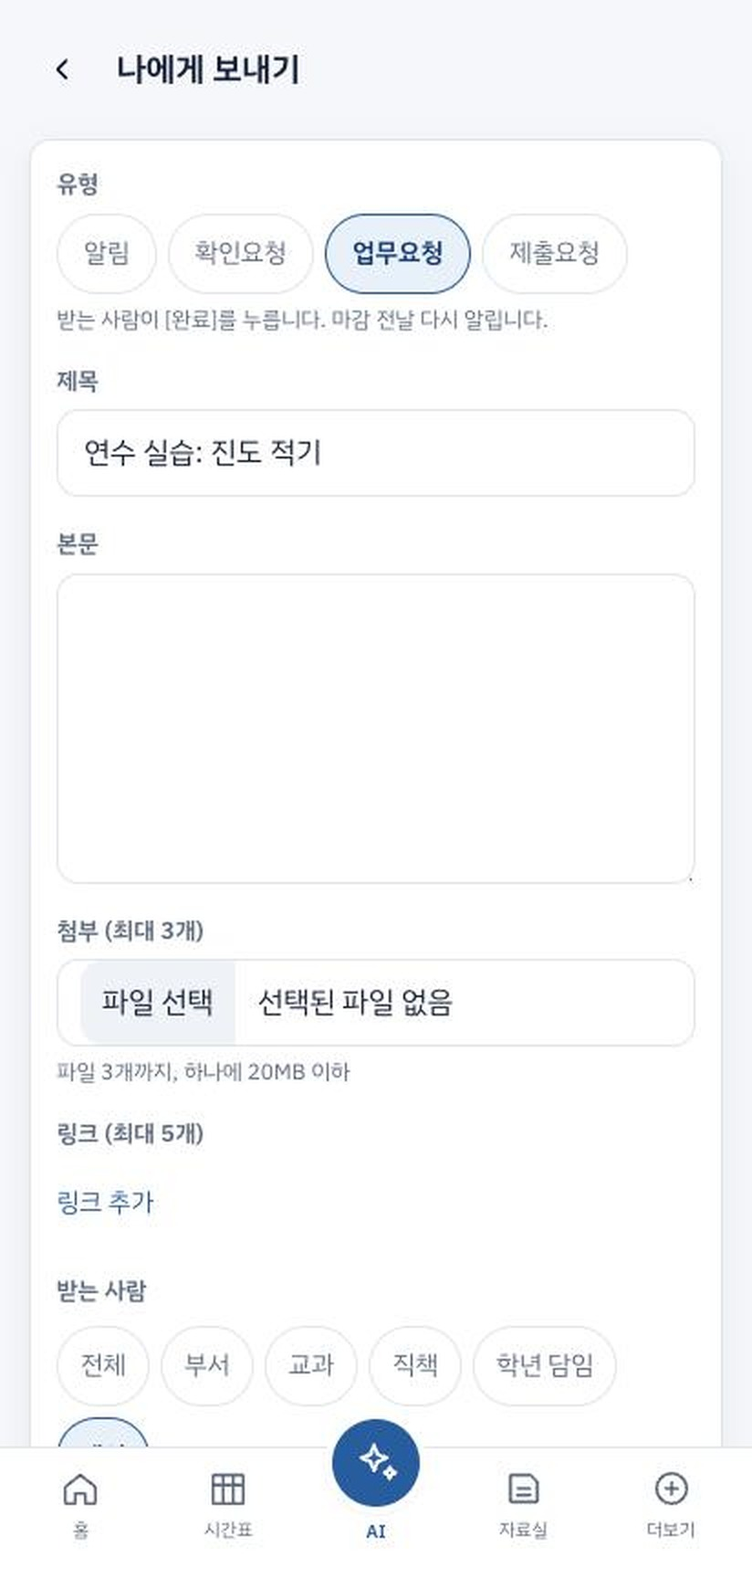
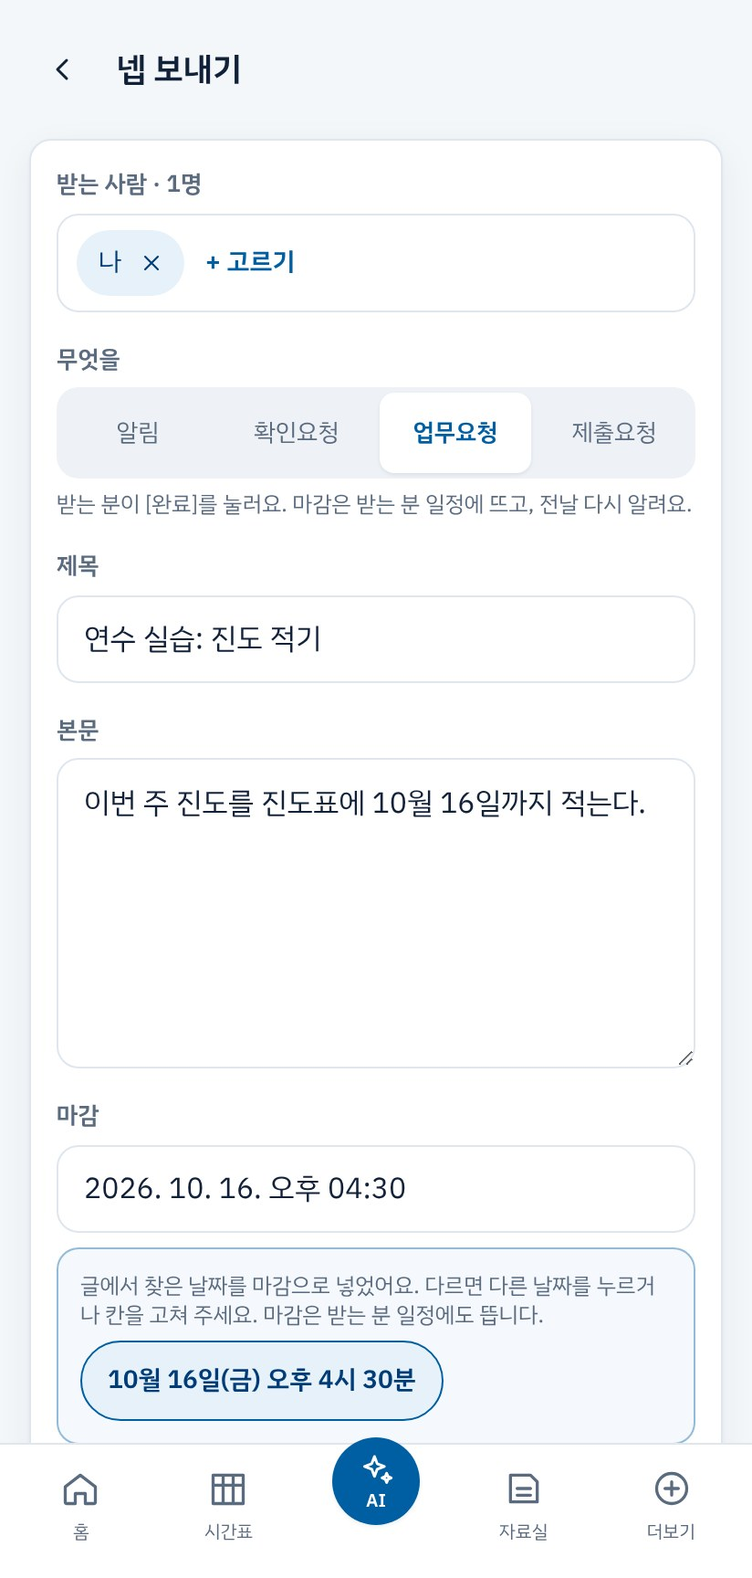
넵 새 화면 반영(10월 12일): 받은 넵은 할 일처럼·목록에서 바로 [넵], 받는 사람 맨 위(나에게·자주 보낸·개인 찾기), 보낸 넵 진행 막대·다시 알림·제출 모두 받기
- 앱 화면 부품으로 그린 넵 화면 10장(받은·보낸·받는 사람 고르기·직책·개인·쓰기·보낸 넵·받은 넵), 이름·글은 지어낸 예시
- 실습 6·받는 사람 고르기·넵 마감·실습 7 장면을 새 화면에 맞춰 다시 씀, 옛 모형과 옛 캡처(nep, nep-roles) 지움
- 10월 새 기능 카드·첫 화면 NEW 목록에 넵 새 화면

Claude-Session: https://claude.ai/code/session_01PnRkvZMXyWQ3PDuECRmpn5

diff --git a/scenes.js b/scenes.js
@@ -445,22 +445,12 @@
   M.notiAsk = notiPage(false, '<div class="dim"></div><div class="dialog" style="top:300px"><h4>AI 교무실에서 알림을 보내도록 허용할까요?</h4><p class="muted">알림은 설정에서 언제든 바꿀 수 있습니다.</p>' +
     '<div style="display:flex;justify-content:flex-end;gap:8px;margin-top:20px"><span style="padding:10px 14px;font-weight:700;color:#1a73e8">허용 안 함</span><span data-t="allow" style="padding:10px 18px;font-weight:700;color:#fff;background:#1a73e8;border-radius:20px">허용</span></div></div>');
   M.notiOn = notiPage(true);
-  function nepTop(tab) {
-    return '<div class="top"><b>넵</b><span>' + (tab === 0 ? "처리할 것 1건" : "보낸 요청 현황") + "</span></div>" +
-      '<div style="margin:6px 16px 10px;background:#e9eef4;border-radius:14px;padding:4px;display:grid;grid-template-columns:1fr 1fr;text-align:center;font-weight:700"><span style="padding:9px;border-radius:11px;' + (tab === 0 ? "background:#fff" : "color:#6b7a90") + '">받은</span><span style="padding:9px;border-radius:11px;' + (tab === 1 ? "background:#fff" : "color:#6b7a90") + '">보낸</span></div>';
-  }
-  M.nepRecv = mk(nepTop(0) + '<div class="card" data-t="item"><span class="pill">업무요청</span><h4 style="margin-top:8px">연수 실습: 진도 적기</h4><p class="muted">나 · 마감 10월 9일 (금) 16:30</p></div>');
-  M.nepDetail = mk('<div class="top"><b style="font-size:20px">‹&nbsp; 넵</b></div><div class="card"><span class="pill">업무요청</span><h4 style="font-size:22px;margin-top:10px">연수 실습: 진도 적기</h4><p class="muted">보낸 사람 나 · 마감 10월 9일 (금) 16:30</p><p style="margin-top:12px">오늘 수업 진도를 진도표에 한 줄 적어 주세요.</p>' +
-    '<div class="btn" data-t="done" style="position:relative;overflow:hidden">완료<span class="dn" style="position:absolute;inset:0;display:grid;place-items:center;background:#1f8a5a;opacity:0">넵 처리했습니다 · 16:42</span></div></div>');
-  M.nepSent = mk(nepTop(1) + '<div class="card"><span class="pill">확인요청</span><h4 style="margin-top:8px">2학기 평가계획서 확인</h4><div class="row"><span class="muted">처리</span><b>5 / 7</b></div><div class="bar2"><i style="width:71%"></i></div>' +
-    '<div class="person"><span>○○○</span><span class="muted">도착 · 아직</span></div><div class="person"><span>○○○</span><span class="muted">도착 · 아직</span></div><div class="person"><span class="muted">처리 5명</span><span class="muted">펼치기 ›</span></div>' +
-    '<div class="btn ghost" data-t="remind">다시 알림</div></div>');
   M.signTap = mk('<div class="top"><b style="font-size:21px">‹&nbsp; 종교과 교과협의회</b><span>10월 7일 (수) 7교시 · 아가페교실</span></div>' +
     '<div class="card"><div class="row"><span class="muted">만든 사람 홍길동</span><span class="pill">서명 받는 중</span></div></div>' +
     '<div style="margin:14px 20px 4px;font:600 13px var(--body);color:#6b7a90">명단</div>' +
     '<div class="card" style="padding:4px 18px"><div class="person" style="border:0"><span>1&nbsp; 김하늘 · 교과</span><b style="color:#1f8a5a">✓ 15:42</b></div><div class="person"><span>2&nbsp; 나 · 교목실</span><span class="muted st">아직</span></div><div class="person"><span>3&nbsp; 박서준 · 교과</span><span class="muted">아직</span></div></div>' +
     '<div style="position:absolute;left:16px;right:16px;top:430px"><div class="btn" data-t="sign" style="position:relative;overflow:hidden">내 서명으로 서명하기<span class="dn" style="position:absolute;inset:0;display:grid;place-items:center;background:#1f8a5a;opacity:0">✓ 서명했습니다</span></div><p style="text-align:center;margin-top:10px;color:#295c9e;font-weight:700">이번만 손으로</p></div>');
-  // 10월 둘째 주에 새로 생긴 화면(캡처 전이라 모형): 빼꼼·넵 마감·넵 속 일정·수업교체 계산하기
+  // 10월 둘째 주에 새로 생긴 화면(캡처 전이라 모형): 빼꼼·수업교체 계산하기
   function hd(title, link, attr) { return '<div class="row" ' + (attr || "") + '><h4 style="margin:0">' + title + "</h4>" + (link ? '<span class="lk">' + link + "</span>" : "") + "</div>"; }
   function li(tm, txt, pill) { return '<div class="li"><b class="tm">' + tm + "</b><span>" + txt + "</span>" + (pill || "") + "</div>"; }
   M.today = mk('<div class="top"><b>빼꼼</b><span>오늘 학교를 빼꼼 — 공지와 평소 시간표에서 달라진 것</span></div>' +
@@ -470,22 +460,6 @@
     '<div class="card" data-t="nep">' + hd('내 넵 <span class="cnt">1</span>', "넵") + li("16:30", "2학기 평가계획서 제출", '<span class="pill">제출요청 마감</span>') + "</div>" +
     '<div class="card" data-t="ev">' + hd('특별 일정 <span class="cnt">2</span>', "주간소식") + li("5~6교시", "동아리활동") + li("15:30", "10월 교직원 협의회", '<span class="pill wk">주간소식</span>') + "</div>" +
     '<div class="card" data-t="chg">' + hd('바뀐 수업 <span class="cnt">3</span>') + li("3교시", "2-3반 · 국어 → 수학", '<span class="pill ok">지금</span>') + li("5교시", "3-10반 · 과학 → 수학", '<span class="pill gr">수락 대기</span>') + li("6교시", "1-4반 · 과학", '<span class="pill warn">보강 필요</span>') + "</div>");
-  M.nepDue = mk('<div class="top"><b style="font-size:20px">‹&nbsp; 넵 보내기</b></div>' +
-    '<div class="card"><p class="lbl">유형</p><div class="chips"><span>알림</span><span class="on">확인요청</span><span>업무요청</span><span>제출요청</span></div>' +
-    '<p class="lbl">제목</p><div class="inp">2학기 평가계획서 확인</div>' +
-    '<p class="lbl">본문</p><div class="inp" style="height:76px">10월 16일까지 확인하고 [넵] 눌러 주세요. 10월 20일 7교시 교과협의회에서 함께 봅니다.</div>' +
-    '<p class="muted" style="margin:12px 0 4px">첨부 · 링크 · 받는 사람 ⋯</p>' +
-    '<p class="lbl" data-t="duelabel">마감 (선택)</p>' +
-    '<div class="hint" data-t="due">글에서 찾은 날짜를 마감으로 넣었어요. 다르면 다른 날짜를 누르거나 칸을 고쳐 주세요. 마감은 받는 분 일정에도 뜹니다.<div class="chips" style="margin-top:8px"><span class="on">10월 16일(금) 오후 4시 30분</span><span>10월 20일(화) 오후 4시 30분</span></div></div>' +
-    '<div class="inp">2026. 10. 16. 오후 04:30</div><p class="lk" style="margin-top:8px">마감 빼기</p>' +
-    '<div class="btn">보내기</div></div>');
-  M.nepEvents = mk('<div class="top"><b style="font-size:20px">‹&nbsp; 넵</b></div>' +
-    '<div class="card"><span class="pill">확인요청</span><h4 style="font-size:20px;margin-top:8px">2학기 평가계획서 확인</h4><p class="muted">보낸 사람 나 · 마감 10월 16일(금) 16:30</p><p style="margin-top:10px">10월 16일까지 확인하고 [넵] 눌러 주세요. 10월 20일 7교시 교과협의회에서 함께 봅니다.</p></div>' +
-    '<div class="card" data-t="ev">' + hd("넵 속 일정") +
-    '<div class="row" style="gap:8px;justify-content:flex-start;margin-top:8px" data-t="evbtn"><span class="tb">AI로 다시 찾기</span><span class="tb">+ 더하기</span></div>' +
-    li("10/20(화)", "7교시 교과협의회", '<span class="lk">고치기 · 빼기</span>') +
-    '<p class="muted" style="margin-top:8px">받는 분들의 일정·시간표·빼꼼·아침 알림에 이 일정이 보여요. 받는 분과 나에게만 보입니다.</p></div>' +
-    '<div class="card"><div class="row"><span class="muted">처리</span><b>3 / 7</b></div><div class="bar2"><i style="width:43%"></i></div></div>');
   M.swapCalc = mk('<div class="top"><b>수업교체</b><span>교체안과 수업교체 신고서 · 학사일정 반영</span></div>' +
     '<div class="seg3" style="grid-template-columns:1fr 1fr"><span class="on">계산하기</span><span>요청</span></div>' +
     '<div class="card" data-t="cond"><h4>교체 조건</h4>' +
@@ -627,7 +601,7 @@
     ["1부", "빼꼼 · 오늘 알림", "현황판이 <b>빼꼼</b>으로. 공지·내 넵·특별 일정·바뀐 수업을 한곳에, 홈에는 <b>「오늘 알림」</b>."],
     ["1부", "아침 알림 「내 줄」", "내 당번·<b>바뀐 내 수업</b>·내 수업과 겹치는 일정·오늘 마감 넵이 알림 <b>맨 위</b>에."],
     ["2부", "시간표에 저절로", "<b>학사일정·주간소식</b>은 칸에 띠로, 그 주 <b>수업교체</b>는 「바뀜·교체·보강」으로. 내 출장은 내 일정에."],
-    ["3부", "넵 마감이 내 일정에", "글 속 날짜가 <b>마감 칸에 저절로</b>. 마감과 넵 속 일정이 받는 분 <b>일정·빼꼼</b>에."],
+    ["3부", "넵 새 화면 · 마감", "받은 넵은 <b>할 일</b>처럼, 확인요청은 목록에서 [넵]. 글 속 날짜가 <b>마감 칸에 저절로</b>."],
     ["4부", "디지털 서명", "<b>내 서명</b> 한 번 등록으로 회의 서명부·파일 서명·수업교체 신고서에 <b>한 번 누르기</b>."],
     ["5부", "AI가 더 많이 읽어요", "<b>📎 파일·웹 주소</b>, <b>학교 공유 드라이브</b>, 주간소식까지. 넵도 <b>카드로 보내기</b>."],
     ["5부", "수업교체 계산하기", "<b>학사일정을 반영</b>해 교체안을 계산하고, 갚는 수업의 <b>날짜를 고릅니다</b>."],
@@ -927,61 +901,67 @@
     chips: [{ t: "실습 6 · 넵" }, { t: "2분", c: "ghost" }], title: "나에게 업무요청 보내기",
     steps: [
       { t: '<span class="k">더보기</span> 맨 위의 <span class="k">넵</span>', s: 0, r: [17, 133, 378, 56] },
-      { t: '<span class="k">나에게</span>: 나에게 보내는 할 일 메모', s: 1, r: [322, 665, 73, 45], z: 1.9 },
-      { t: '유형은 <span class="q">「업무요청」</span> (받으면 <span class="k">완료</span>를 누름)', s: 2, r: [178, 117, 80, 44], z: 1.9 },
-      { t: '제목 <span class="q">「연수 실습: 진도 적기」</span>. 글에 날짜가 있으면 <b>마감 칸에 저절로</b> 들어갑니다', s: 2, r: [31, 224, 350, 48] },
-      { t: '맨 아래 <span class="q">「마감」</span>을 확인하고 <span class="k">보내기</span>. 마감은 <b>내 일정·빼꼼</b>에도 뜹니다', s: 2 }
+      { t: '오른쪽 아래 <span class="k">+ 넵 보내기</span>', s: 1, r: [283, 720, 113, 48], z: 1.9 },
+      { t: '<span class="q">「+ 받는 사람 고르기」</span> → <span class="k">나에게</span> → <span class="k">완료</span>', g: '맨 위 <span class="q">「+ 받는 사람 고르기」</span>를 누르면 아래에서 창이 올라옵니다. <span class="q">「바로 고르기」</span>의 <span class="k">나에게</span>를 누르고 <span class="k">완료</span>', s: 2, r: [16, 574, 67, 44], z: 1.9, newf: true },
+      { t: '<span class="q">「업무요청」</span>, 제목 <span class="q">「연수 실습: 진도 적기」</span>', g: '무엇을 <span class="q">「업무요청」</span>(받으면 <span class="k">완료</span>를 누름). 제목 <span class="q">「연수 실습: 진도 적기」</span>, 본문에는 <span class="q">「내일까지 진도표에 적기」</span>처럼 날짜를 함께 씁니다', s: 3, r: [31, 212, 350, 373] },
+      { t: '글 속 날짜가 <b>마감 칸에 저절로</b> 들어갑니다', g: '글 속 날짜가 <b>마감 칸에 저절로</b> 들어갑니다. 다르면 날짜 단추를 누르거나 칸을 고칩니다. 마감은 <b>내 일정·빼꼼</b>에도 뜹니다', s: 4, r: [31, 346, 350, 164], newf: true },
+      { t: '<span class="k">나에게 업무요청 보내기</span>', g: '맨 아래 <span class="k">나에게 업무요청 보내기</span>. 단추에 누구에게 무엇을 보내는지 쓰여 있습니다', s: 4, r: [31, 661, 350, 50] }
     ],
     note: { tone: "warn", html: "<span><b>근무시간이 끝난 뒤</b>에 보내면 다음 근무일 아침에 도착합니다. 도착하면 [완료]를 눌러 보세요.</span>" },
-    screens: [shot("more-top"), shot("nep"), shot("nep-new")],
-    notes: "「나에게」는 <b>나에게 보내는 할 일 메모</b>입니다. 밤에 써 두면 다음 근무일 아침에 도착하고, [완료]를 누를 때까지 남습니다. 마감은 <b>일정 달력·빼꼼 「내 넵」·홈 「오늘 알림」</b>에도 떠서 잊지 않게 해 줍니다. 지금 직접 한 건 보내 보세요."
+    screens: [shot("more-top"), shot("nep-inbox"), shot("nep-pick-me"), shot("nep-new"), shot("nep-new-bottom")],
+    notes: "「나에게」는 <b>나에게 보내는 할 일 메모</b>입니다. 10월 12일부터 넵 보내기는 <b>받는 사람이 맨 위</b>이고, 보내기 단추에 「나에게 업무요청 보내기」처럼 누구에게 무엇을 보내는지 쓰여 있습니다. 밤에 써 두면 다음 근무일 아침에 도착하고, [완료]를 누를 때까지 남습니다. 마감은 <b>일정 달력·빼꼼 「내 넵」·홈 「오늘 알림」</b>에도 떠서 잊지 않게 해 줍니다. 지금 직접 한 건 보내 보세요. 화면 속 이름·글은 예시입니다."
   });
 
   practice({
-    id: "audience", part: 3, num: null, label: "받는 사람 고르기", min: 0.7, isNew: true,
+    id: "audience", part: 3, num: null, label: "받는 사람 고르기", min: 0.8, isNew: true,
     chips: [{ t: "NEW", c: "new" }, { t: "넵·서명 공통", c: "ghost" }], title: "받는 사람을 <em>부서·교과·직책</em>으로",
     steps: [
-      { t: '<span class="q">전체 · 부서 · 교과 · 직책 · 학년 담임 · 개인</span> 여섯 가지로 고릅니다', s: 0, r: [31, 293, 350, 94], newf: true },
-      { t: '<span class="k">직책</span> → <span class="q">부장단 12</span> · <span class="q">교과 주임단 14</span>', s: 0, r: [31, 397, 196, 44], newf: true, z: 1.9 },
-      { t: '고르면 <b>이름이 펼쳐져</b> 누구에게 가는지 바로 보입니다', s: 0, r: [31, 473, 350, 98], newf: true },
-      { t: '나는 빼고 <b>11명에게</b>', s: 0, r: [31, 575, 120, 28], z: 1.9 },
-      { t: '같은 고르기를 <b>회의 서명부·파일 서명</b>에서도 씁니다', s: 0 }
+      { t: '맨 위 <span class="q">「바로 고르기」</span>: <span class="k">나에게</span> + 자주 보낸 묶음', s: 0, r: [16, 574, 380, 44], newf: true },
+      { t: '<span class="q">전체 · 부서 · 교과 · 직책 · 학년 담임 · 개인</span>', g: '그 아래 <span class="q">전체 · 부서 · 교과 · 직책 · 학년 담임 · 개인</span> 여섯 가지로 고릅니다', s: 1, r: [16, 527, 380, 46] },
+      { t: '<span class="k">직책</span> → <span class="q">부장단 12</span> · <span class="q">교과 주임단 14</span>', s: 1, r: [16, 583, 198, 44], z: 1.9 },
+      { t: '고르면 <b>이름이 펼쳐져</b> 누구에게 가는지 보입니다', s: 1, r: [16, 659, 380, 98] },
+      { t: '<span class="q">「12명 골랐어요」</span> 확인하고 <span class="k">완료</span>', s: 1, r: [0, 795, 412, 69] },
+      { t: '<span class="k">개인</span>: 이름·초성으로 찾기, <span class="q">「최근 보낸 분」</span>', g: '<span class="k">개인</span>은 이름·초성(ㅂㅈㅁ)·부서·교과로 찾습니다. 맨 위에 <span class="k">나</span>와 <span class="q">「최근 보낸 분」</span>, 전체 명단은 <span class="q">「전체 명단 보기」</span>로 펼칩니다', s: 2, r: [16, 386, 380, 320], newf: true }
     ],
-    note: { html: "<span><b>부서</b> = 업무부서 9곳 + 1·2·3학년부 + 행정실 · <b>학년부</b> = 학년부장과 담임 · <b>교과</b> = 국어과처럼 교과별</span>" },
-    screens: [shot("nep-roles")],
-    lt: { tag: "NEW", title: "받는 사람 고르기", sub: "2학기 업무분장·명렬표로 만든 교직원 조직표" },
-    notes: "이번 주에 <b>교직원 조직표</b>(2학기 업무분장·명렬표)를 넣어서, 받는 사람을 부서·교과·직책으로 고를 수 있습니다. 고르면 <b>이름이 펼쳐져</b> 잘못 보낼 걱정이 줄어듭니다. 연락처는 담지 않았습니다."
+    note: { html: "<span>고른 묶음은 맨 위에 <b>이름표</b>로 남고 ×로 뺍니다. 같은 고르기를 <b>회의 서명부·파일 서명</b>에서도 씁니다</span>" },
+    gnote: { html: "<span>고른 묶음은 받는 사람 칸에 <b>이름표</b>로 남고 ×로 뺍니다. <b>부서</b> = 업무부서 9곳 + 1·2·3학년부 + 행정실, <b>학년부</b> = 학년부장과 담임. 같은 고르기를 <b>회의 서명부·파일 서명</b>에서도 씁니다. 화면 속 이름은 지어낸 예시입니다.</span>" },
+    screens: [shot("nep-pick-me"), shot("nep-audience"), shot("nep-person")],
+    lt: { tag: "NEW", title: "받는 사람 고르기", sub: "바로 고르기 · 이름 펼침 · 개인 찾기" },
+    notes: "10월 12일부터 넵 보내기 맨 위가 <b>받는 사람</b>입니다. 「+ 받는 사람 고르기」를 누르면 아래에서 창이 올라오고, 맨 위 <b>바로 고르기</b>에 「나에게」와 내가 자주 보낸 묶음이 있습니다. 그 아래는 전체·부서·교과·직책·학년 담임·개인. 묶음을 고르면 <b>구성원 이름이 펼쳐져</b> 잘못 보낼 걱정이 줄고, 「개인」은 이름·초성으로 찾습니다. 조직표는 2학기 업무분장·명렬표로 만들었고 연락처는 담지 않았습니다. 화면 속 이름은 지어낸 예시입니다."
   });
 
   practice({
     id: "nepDue", part: 3, num: null, label: "넵 마감·넵 속 일정", min: 1, isNew: true,
     chips: [{ t: "NEW", c: "new" }, { t: "둘러보기 · 넵", c: "ghost" }], title: "넵 마감이 <em>받는 분 일정에</em>",
     steps: [
-      { t: '글 속 날짜가 <b>마감 칸에 저절로</b>. 다르면 날짜 단추나 칸을 고칩니다', g: '넵을 쓰면 제목·본문에서 찾은 날짜가 <b>마감 칸에 저절로</b> 들어갑니다. 다르면 다른 날짜 단추를 누르거나 칸을 고칩니다', s: 0, r: "[data-t=due]", newf: true },
-      { t: '확인요청도 <span class="q">「마감 (선택)」</span>. 필요 없으면 <span class="k">마감 빼기</span>', s: 0, r: "[data-t=duelabel]", z: 1.9 },
-      { t: '보내면 AI가 글 속 일정을 <span class="q">「넵 속 일정」</span>에 적습니다', g: '보내면 AI가 글 속 일정(날짜·교시·시각)을 찾아 <span class="q">「넵 속 일정」</span>에 적습니다', s: 1, r: "[data-t=ev]", newf: true },
-      { t: '보낸 사람은 <span class="k">고치기</span>·<span class="k">빼기</span>·<span class="k">+ 더하기</span>·<span class="k">AI로 다시 찾기</span>', s: 1, r: "[data-t=evbtn]", z: 1.9 },
-      { t: '받는 분의 <b>일정·시간표·빼꼼·아침 알림</b>에 뜹니다(두 분에게만)', g: '마감과 넵 속 일정은 받는 분의 <b>일정·시간표·빼꼼 「내 넵」·아침 알림</b>에 뜹니다. 보낸 분과 받는 분에게만 보입니다', s: 1 }
+      { t: '글 속 날짜가 <b>마감 칸에 저절로</b>. 다르면 날짜 단추나 칸을 고칩니다', g: '넵을 쓰면 제목·본문에서 찾은 날짜가 <b>마감 칸에 저절로</b> 들어갑니다(시각이 없으면 오후 4시 30분). 다르면 다른 날짜 단추를 누르거나 칸을 고칩니다', s: 0, r: [31, 346, 350, 164], newf: true },
+      { t: '확인요청은 <span class="q">「마감 (선택)」</span> — 필요 없으면 <span class="k">마감 빼기</span>', s: 0 },
+      { t: '보내면 AI가 글 속 일정을 <span class="q">「넵 속 일정」</span>에 적습니다', g: '보내면 AI가 글 속 일정(날짜·교시·시각)을 찾아 <span class="q">「넵 속 일정」</span>에 적습니다', s: 1, r: [31, 396, 350, 140], newf: true },
+      { t: '보낸 사람은 <span class="k">고치기</span>·<span class="k">빼기</span>·<span class="k">+ 더하기</span>·<span class="k">AI로 다시 찾기</span>', s: 1, r: [250, 404, 135, 96], z: 1.9 },
+      { t: '받는 분 화면에는 <span class="q">「내 일정에 있어요」</span>', g: '받는 분이 열면 마감 띠에 <span class="q">「내 일정에 있어요」</span>가 붙습니다. 마감과 넵 속 일정은 받는 분의 <b>일정·시간표·빼꼼 「내 넵」·아침 알림</b>에 뜹니다', s: 2, r: [31, 190, 350, 36] },
+      { t: '넵 속 일정은 <b>보낸 분과 받는 분에게만</b> 보입니다', s: 2, r: [31, 347, 350, 120] }
     ],
-    note: { html: "<span>달력의 테두리 「넵」은 마감, 점선은 넵 속 일정. 화면은 모형입니다.</span>" },
-    gnote: { html: "<span>일정 달력에서 테두리만 있는 「넵」은 마감, 점선은 넵 속 일정입니다. 마감은 처리하면 사라지고, 학교 학사일정에는 들어가지 않습니다. 화면은 모형입니다.</span>" },
-    screens: [M.nepDue, M.nepEvents],
+    note: { html: "<span>달력의 테두리 「넵」은 마감, 점선은 넵 속 일정. 처리하면 마감은 사라집니다</span>" },
+    gnote: { html: "<span>일정 달력에서 테두리만 있는 「넵」은 마감, 점선은 넵 속 일정입니다. 마감은 처리하면 사라지고, 학교 학사일정·구글 캘린더에는 들어가지 않습니다. 화면 속 이름·글은 예시입니다.</span>" },
+    screens: [shot("nep-new-bottom"), shot("nep-detail-sent"), shot("nep-detail-recv")],
     lt: { tag: "NEW", title: "넵 마감·넵 속 일정", sub: "받는 분의 일정·빼꼼·아침 알림에 저절로" },
-    notes: "넵 쓰기 화면이 <b>제목·본문의 날짜를 찾아 마감 칸에 미리 채웁니다</b>(시각이 없으면 오후 4시 30분). 보내기 전에 보이니 다르면 고치거나 뺍니다. 확인요청도 이제 마감을 넣을 수 있습니다. 보내고 나면 AI가 글 속의 일정 — 예를 들어 「10월 20일 7교시 교과협의회」 — 을 찾아 <b>넵 속 일정</b>으로 적고, 받는 분의 일정 달력(점선)·시간표 칸·빼꼼·아침 알림에 띄웁니다. 보낸 분과 받는 분에게만 보이고, 잘못 찾았으면 보낸 분이 고치거나 뺍니다. 화면은 모형입니다."
+    notes: "넵 쓰기 화면이 <b>제목·본문의 날짜를 찾아 마감 칸에 미리 채웁니다</b>(시각이 없으면 오후 4시 30분). 보내기 전에 보이니 다르면 고치거나 뺍니다. 확인요청도 마감을 넣을 수 있습니다. 보내고 나면 AI가 글 속의 일정 — 예를 들어 「10월 21일 7교시 교과협의회」 — 을 찾아 <b>넵 속 일정</b>으로 적고, 받는 분의 일정 달력(점선)·시간표 칸·빼꼼·아침 알림에 띄웁니다. 받는 분 화면에는 「내 일정에 있어요」가 붙습니다. 보낸 분과 받는 분에게만 보이고, 잘못 찾았으면 보낸 분이 고치거나 뺍니다. 화면 속 이름·글은 예시입니다."
   });
 
   practice({
     id: "p7", part: 3, num: 7, label: "실습 7 · 받은 넵 처리", min: 2, practiceMin: 2,
     chips: [{ t: "실습 7 · 넵" }, { t: "짝 실습", c: "ghost" }], title: "받은 넵 처리하기",
     steps: [
-      { t: '알림을 누르거나 <span class="k">넵</span> → <span class="q">「받은」</span>에서 엽니다', s: 0, r: "[data-t=item]" },
-      { t: '버튼은 하나: 확인요청 <span class="k">넵</span> · 업무요청 <span class="k">완료</span> · 제출요청 <span class="k">제출</span>', s: 1, r: "[data-t=done]" },
-      { t: '<span class="q">「넵 처리했습니다」</span> — 보낸 사람 화면에 바로 반영', s: 1, fn: function (A, P) { var b = P.el(1).querySelector("[data-t=done] .dn"); A.go(b, [{ opacity: 0 }, { opacity: 1 }], { d: 360, delay: 300 }); A.sfx("check", { delay: 300 }); } },
-      { t: '(보낸 사람) <span class="q">「보낸」</span>에서 누가 아직인지 보고 <span class="k">다시 알림</span>', s: 2, r: "[data-t=remind]" }
+      { t: '<span class="q">「받은」</span> 맨 위 <span class="q">「처리할 것」</span> — 마감 가까운 순', g: '알림을 누르거나 <span class="k">넵</span>을 열면 <span class="q">「받은」</span>이 오늘 할 일처럼 묶여 있습니다. 맨 위 <span class="q">「처리할 것」</span>은 마감 가까운 순, 그 아래 <span class="q">「새 알림」</span>', s: 0, r: [17, 139, 378, 403], newf: true },
+      { t: '확인요청은 <b>목록에서 바로</b> <span class="k">넵</span> → <span class="q">「처리함」</span>으로', g: '확인요청은 열지 않고 <b>목록에서 바로</b> <span class="k">넵</span>. 처리한 넵은 아래 <span class="q">「처리함」</span>(접힘)으로 내려갑니다', s: 0, r: [329, 382, 53, 44], z: 1.9, newf: true },
+      { t: '업무·제출은 열어서 <span class="k">완료</span> · <span class="k">제출</span>', g: '업무요청·제출요청은 열어서 내용을 보고 <span class="k">완료</span> · <span class="k">제출</span>. 단추는 글이 길어도 화면 아래에 붙어 있습니다', s: 1, r: [31, 490, 350, 50] },
+      { t: '(보낸 사람) <span class="q">「보낸」</span>: 진행 막대 · 미처리 N명', g: '(보낸 사람) <span class="q">「보낸」</span>은 보낼 예정 · 진행 중 · 끝난 것으로 묶이고, 진행 중에는 <b>막대</b>와 <span class="q">「미처리 N명」</span>이 보입니다', s: 2, r: [17, 277, 378, 94], newf: true },
+      { t: '열면 <span class="q">「아직 5명」</span> → <span class="k">5명에게 다시 알림</span>', g: '보낸 넵을 열면 <span class="q">「아직 N명」</span>에 이름이 보이고, <span class="k">N명에게 다시 알림</span>은 아직 안 한 분께만, <b>하루 한 번</b> 보냅니다', s: 3, r: [31, 296, 350, 111] },
+      { t: '제출요청은 <span class="k">모두 받기</span>로 한 번에', g: '제출요청은 <span class="k">모두 받기</span>를 누르면 낸 파일·글을 zip 파일 하나로 받습니다', s: 3, r: [223, 419, 158, 44], z: 1.9, newf: true }
     ],
-    note: { html: "<span><b>짝 실습</b> 옆 선생님께 「확인요청」을 보내고 서로 [넵]을 눌러 봅니다. 받는 사람: 「개인」 → 이름 찾기</span>" },
-    screens: [M.nepRecv, M.nepDetail, M.nepSent],
-    notes: "짝 실습입니다. 옆 선생님께 확인요청을 보내고 서로 [넵]을 눌러 보면, 보낸 쪽 「보낸」 탭 숫자가 바로 올라가는 걸 볼 수 있습니다. 다시 알림은 아직 안 한 분께만 갑니다."
+    note: { html: "<span><b>짝 실습</b> 옆 선생님께 「확인요청」을 보내고 서로 목록에서 [넵]을 눌러 봅니다. 받는 사람: 「개인」 → 이름 찾기</span>" },
+    screens: [shot("nep-inbox"), shot("nep-detail-recv"), shot("nep-sent"), shot("nep-board")],
+    notes: "받은 넵은 이제 <b>오늘 할 일</b>처럼 묶입니다. 확인요청은 열지 않고 <b>목록에서 바로 [넵]</b>, 업무·제출은 열어서 처리합니다. 짝 실습 — 옆 선생님께 확인요청을 보내고 서로 [넵]을 눌러 보면, 보낸 쪽 「보낸」의 숫자와 막대가 바로 올라갑니다. 다시 알림은 아직 안 한 분께만, 하루 한 번. 제출요청은 「모두 받기」로 한 번에 받습니다. 지우기는 보낸 넵 오른쪽 위 「···」에 있습니다. 화면 속 이름·글은 예시입니다."
   });
 
   // ════════════════════════════════════════════════════════════

diff --git a/index.html b/index.html
@@ -112,6 +112,8 @@ main { max-width: 1040px; margin: -26px auto 0; padding: 0 16px 60px; position: 
       <li><a href="guide.html#p3">아침·점심 알림 맨 위에 나의 「내 줄」</a></li>
       <li><a href="guide.html#p4">시간표에 그 주 학사일정·주간소식 띠와 수업교체(바뀜·교체·보강)가 저절로</a></li>
       <li><a href="guide.html#home">내 출장·연수는 내 일정·홈에 「출장 · 5~7교시」로(나에게만)</a></li>
+      <li><a href="guide.html#p7">넵 화면 새로: 받은 넵은 할 일처럼, 확인요청은 목록에서 바로 [넵], 보낸 넵은 진행 막대·제출 모두 받기</a></li>
+      <li><a href="guide.html#audience">넵 받는 사람이 맨 위로: 나에게·자주 보낸 묶음, 이름·초성으로 찾기</a></li>
       <li><a href="guide.html#nepDue">넵 마감·넵 속 일정이 받는 분 일정·빼꼼에</a></li>
       <li><a href="guide.html#swap">수업교체 계산하기: 학사일정 반영, 갚는 수업 날짜 고르기</a></li>
       <li><a href="guide.html#p9">AI가 학교 공유 드라이브도 찾아 읽기</a>, <a href="guide.html#p11">넵도 카드로 보내기</a></li>
